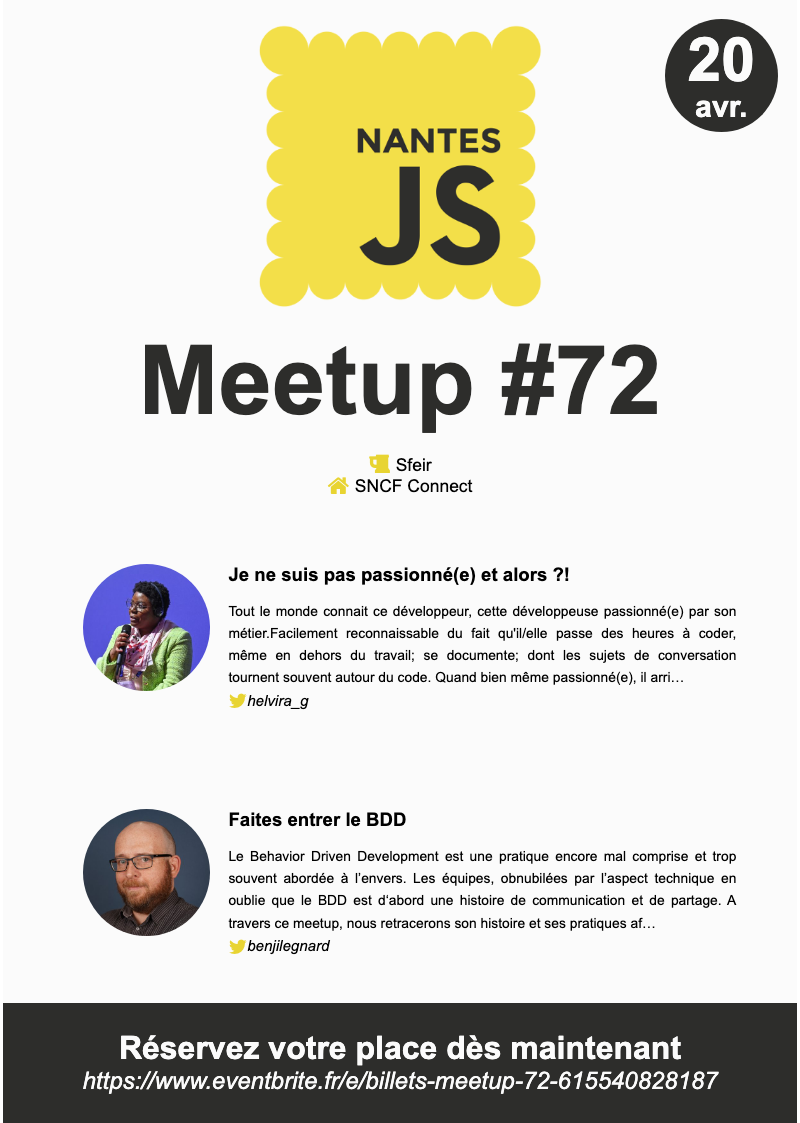
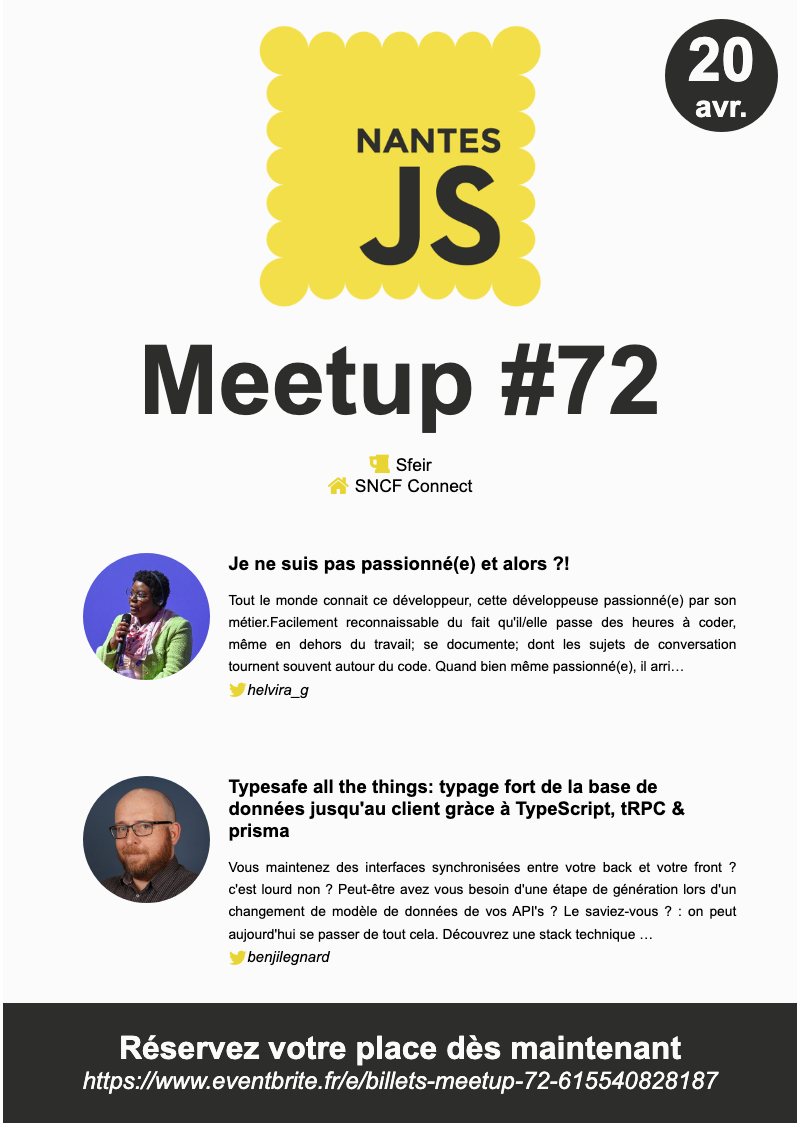
:bug: Fix benjilegnard talk

Changed region(s): [[0.0938, 0.6857, 0.9375, 0.8727], [0.0938, 0.4675, 0.9375, 0.6545]]

diff --git a/datas/meetups/meetup-72.md b/datas/meetups/meetup-72.md
@@ -28,8 +28,18 @@ Ici, tout l'objet de cette conférence !"
           link: 'helvira_g'
   -
     id: '508986f3-97b6-4b75-9769-f469db1e6e39'
-    title: "Faites entrer le BDD"
-    description: "Le Behavior Driven Development est une pratique encore mal comprise et trop souvent abordée à l’envers. Les équipes, obnubilées par l’aspect technique en oublie que le BDD est d‘abord une histoire de communication et de partage. A travers ce meetup, nous retracerons son histoire et ses pratiques afin de mieux comprendre son cadre d’utilisation et son intérêt."
+    title: "Typesafe all the things: typage fort de la base de données jusqu'au client gràce à TypeScript, tRPC & prisma"
+    description: "Vous maintenez des interfaces synchronisées entre votre back et votre front ? c'est lourd non ?
+
+Peut-être avez vous besoin d'une étape de génération lors d'un changement de modèle de données de vos API's ?
+
+Le saviez-vous ? : on peut aujourd'hui se passer de tout cela.
+
+Découvrez une stack technique utilisant la puissance de typescript au service de l'expérience développeur et de la simplicité:
+
+- tRPC pour une API et son client sans schémas ni génération de code.
+
+- prisma pour un ORM supportant de nombreuses bases de données et orienté typescript first."
     speakers:
       -
           id: 'e3f3c4e7-51a3-450b-afee-028bc4eb1336'
